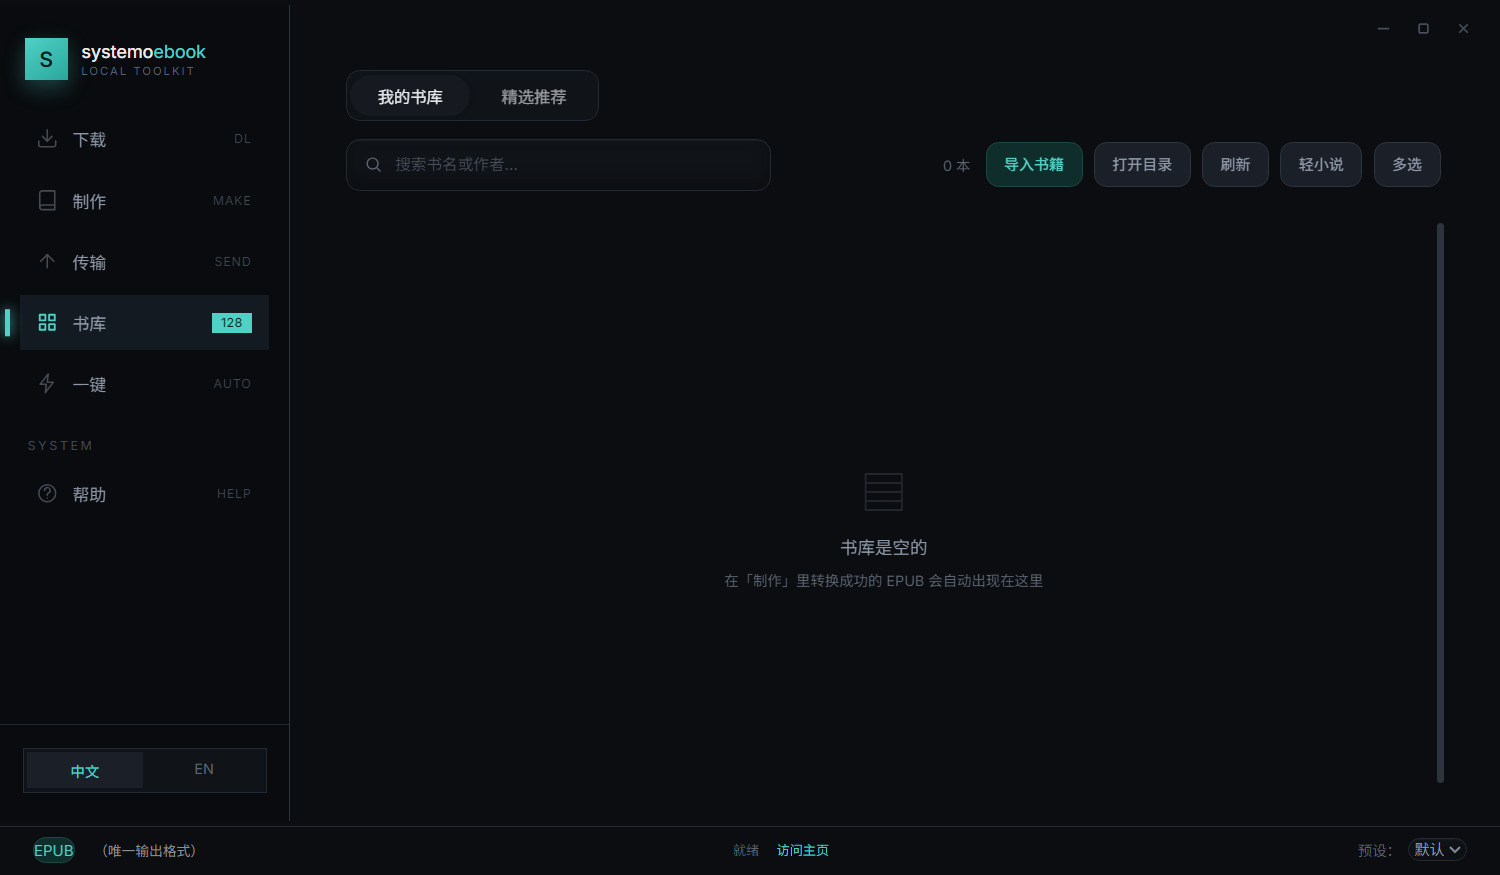
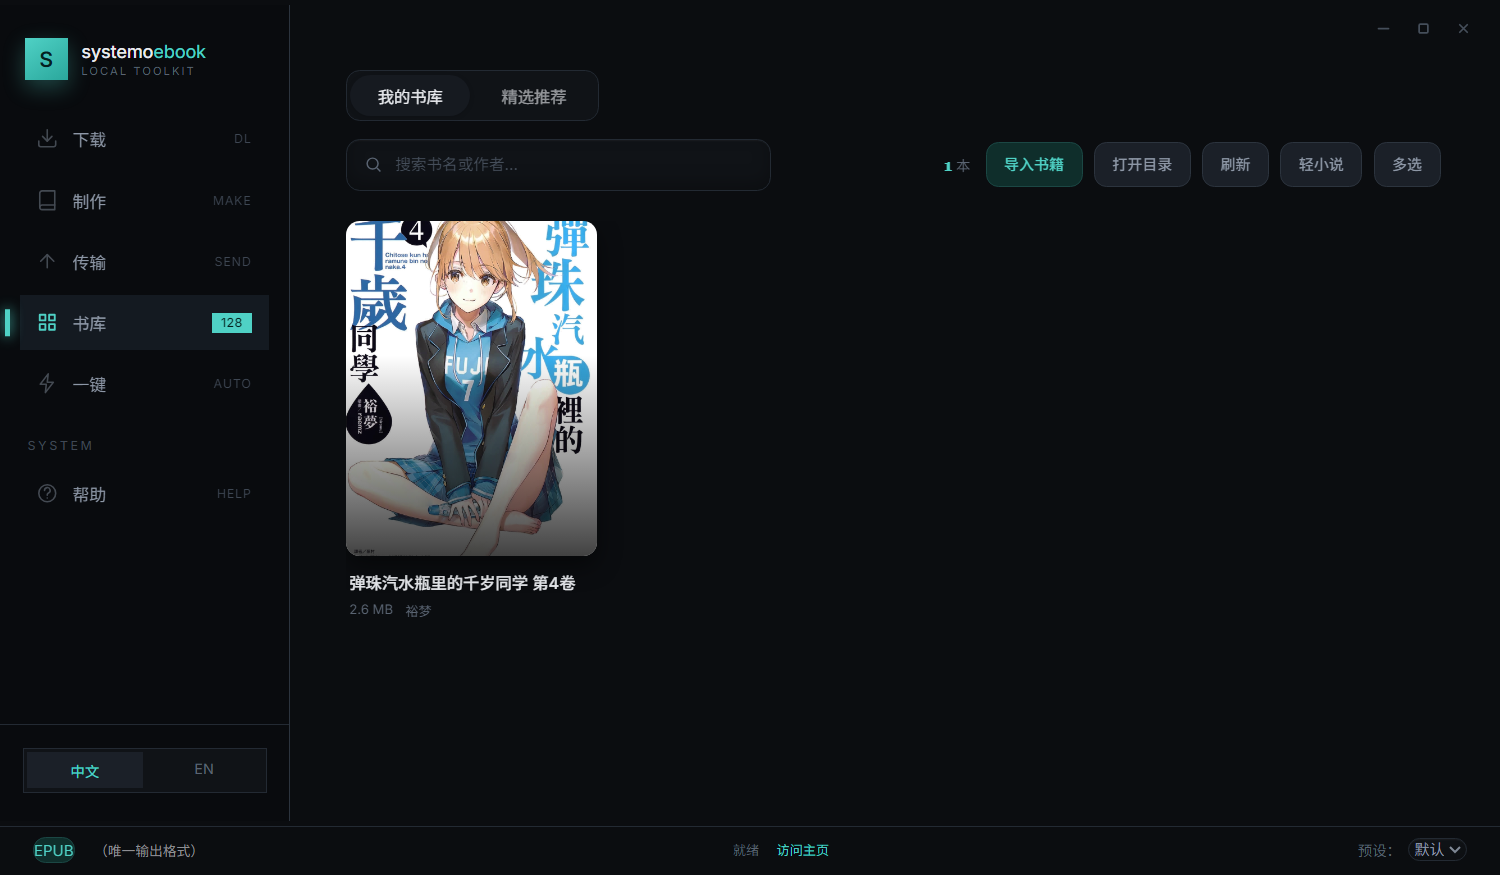
README: 增加「精选推荐」与「自带阅读器」两个功能，补两张实拍截图（用《弹珠汽水瓶里的千岁同学 第4卷》实测）

diff --git a/README.md b/README.md
@@ -29,6 +29,10 @@
 |---|---|
 | ![传输](docs/screenshots/03-send.png) | ![书库](docs/screenshots/04-library.png) |
 
+| 精选推荐（多源榜单） | 自带阅读器（foliate-js） |
+|---|---|
+| ![精选推荐](docs/screenshots/07-recommend.png) | ![阅读器](docs/screenshots/08-reader.png) |
+
 | 在线查询（本版只开放查询） |
 |---|
 | ![查询](docs/screenshots/05-query.png) |
@@ -44,6 +48,8 @@
 | **作者 / 封面** | 多源联网查询（微信读书、番茄、晋江、起点、轻小说等）；同名作者给出候选由你挑；小图自动升级成大图 |
 | **EPUB 生成** | 封面、目录、章节分页、标题长度上限等可调 |
 | **三条传输通道** | ① 苹果图书（经百度网盘中转）② **WiFi 直传**（手机浏览器打开地址即收）③ **Send to Kindle**（Amazon 官方） |
+| **精选推荐** | 多源榜单聚合（微信读书 / 起点 / 番茄 / 晋江 / 轻小说…），支持**综合推荐 / 轻小说**切换、一键刷新；左键看下载弹窗、右键看详情 |
+| **自带阅读器** | 内置 **foliate-js** 引擎，双击书库里的书直接开读：目录 / 书签 / 全文搜索 / 主题（深色·浅色·护眼）/ 字体 / 字号 / 行距 / 翻页与滚动模式 / 边距 / 对齐方式 |
 | **书库** | 已生成书籍管理、批量传输、封面预览 |
 | **轻小说** | 哔哩轻小说书号 / 网址查询（本版只开放查询） |
 
